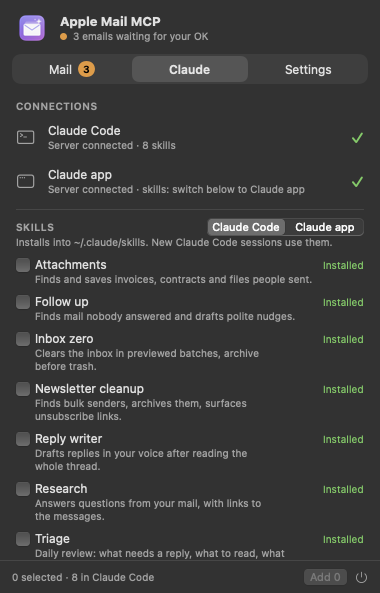
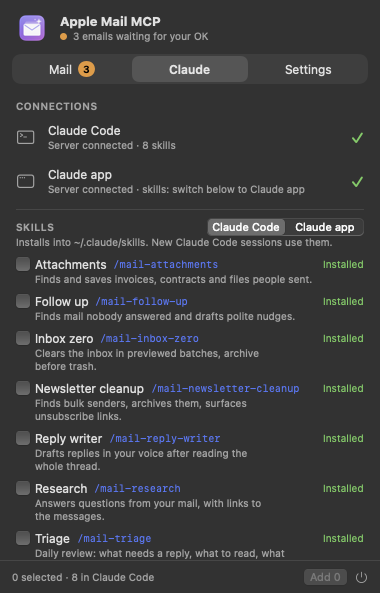
Show each skill's Claude Code slash command

diff --git a/Sources/MailMCPBar/Views.swift b/Sources/MailMCPBar/Views.swift
@@ -581,7 +581,10 @@ struct SkillRow: View {
         {
             HStack(alignment: .firstTextBaseline) {
                 VStack(alignment: .leading, spacing: 1) {
-                    Text(skill.title).font(.callout)
+                    HStack(spacing: 6) {
+                        Text(skill.title).font(.callout)
+                        SlashCommand(name: skill.name)
+                    }
                     Text(skill.summary).font(.caption).foregroundStyle(.secondary)
                         .lineLimit(2).fixedSize(horizontal: false, vertical: true)
                 }
@@ -593,6 +596,30 @@ struct SkillRow: View {
         .disabled(state == .foreign)
         .padding(.horizontal, 16)
         .padding(.vertical, 4)
+    }
+}
+
+/// `/mail-triage`: how to run a skill in Claude Code. Click copies it.
+struct SlashCommand: View {
+    let name: String
+    @State private var copied = false
+
+    var body: some View {
+        Button {
+            NSPasteboard.general.clearContents()
+            NSPasteboard.general.setString("/\(name)", forType: .string)
+            copied = true
+            Task {
+                try? await Task.sleep(nanoseconds: 1_200_000_000)
+                copied = false
+            }
+        } label: {
+            Text(copied ? "Copied" : "/\(name)")
+                .font(.caption.monospaced())
+                .foregroundStyle(copied ? AnyShapeStyle(.green) : AnyShapeStyle(.tint))
+        }
+        .buttonStyle(.borderless)
+        .help("Type /\(name) in Claude Code to run this skill. Click to copy.")
     }
 }
 

diff --git a/README.md b/README.md
@@ -103,16 +103,19 @@ Message ids are Mail's own; a moved message gets a new id, which `move_messages`
 
 Pick them in the panel's **Claude** tab: each one shows what it does and whether it's installed.
 
-| Skill | Ask Claude… |
-|---|---|
-| **Triage** | "What needs my attention in my mail today?" |
-| **Inbox zero** | "Help me get my inbox to zero." |
-| **Follow up** | "Who hasn't replied to me this week?" |
-| **Reply writer** | "Reply to Anna's email about the roadmap." |
-| **Newsletter cleanup** | "I get too many newsletters, clean that up." |
-| **Research** | "Find the confirmation code from my hotel booking." |
-| **Attachments** | "Save all invoices from 2025 into Documents/Invoices." |
-| **Weekly report** | "How was my week in email?" |
+| Skill | In Claude Code | Or just ask… |
+|---|---|---|
+| **Triage** | `/mail-triage` | "What needs my attention in my mail today?" |
+| **Inbox zero** | `/mail-inbox-zero` | "Help me get my inbox to zero." |
+| **Follow up** | `/mail-follow-up` | "Who hasn't replied to me this week?" |
+| **Reply writer** | `/mail-reply-writer` | "Reply to Anna's email about the roadmap." |
+| **Newsletter cleanup** | `/mail-newsletter-cleanup` | "I get too many newsletters, clean that up." |
+| **Research** | `/mail-research` | "Find the confirmation code from my hotel booking." |
+| **Attachments** | `/mail-attachments` | "Save all invoices from 2025 into Documents/Invoices." |
+| **Weekly report** | `/mail-weekly-report` | "How was my week in email?" |
+
+Claude picks the right skill from your request; in Claude Code you can also start one with its slash command.
+In the Claude app, skills are used automatically once uploaded.
 
 They follow the same rules as the server: drafts before sending, previews before bulk changes, and quoting
 as little of your mail as possible. When the app updates, skills you installed update with it.

diff --git a/CHANGELOG.md b/CHANGELOG.md
@@ -10,6 +10,7 @@ All notable changes to this project are documented here. The format follows
 
 - **Show in Mail**: activity rows about a message (read, replied, moved, flagged, drafted…) open it in Mail,
   and a reply or forward waiting for approval links to the original.
+- Each skill in the Claude tab shows its Claude Code slash command (`/mail-triage`…); click to copy.
 
 ## [0.1.0] - 2026-10-18
 
